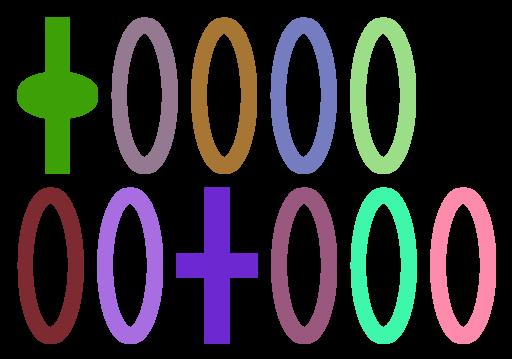
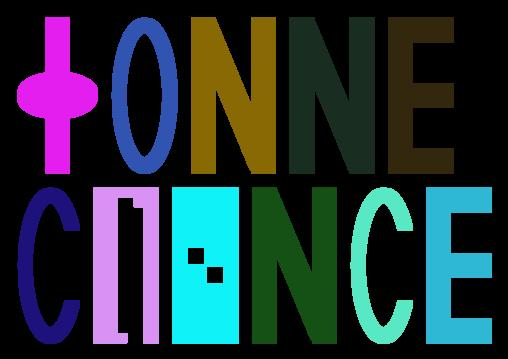
mes lettres

diff --git a/src/main/java/Letter/LetterFactory.java b/src/main/java/Letter/LetterFactory.java
@@ -66,7 +66,13 @@ public final class LetterFactory {
      * @return BaseShape containing the letter C
      */
     public static BaseShape create_C() {
-        return create_O();
+        Double centerRight = halfMaxWidth-halfStripeThickness;
+
+        BaseShape lettreC = create_O();
+        Rectangle aEffacer = new Rectangle(stripeThickness,halfMaxHeight);
+        aEffacer.translate(new Point2d(centerRight,0.0));
+        lettreC.remove(aEffacer);
+        return lettreC;
     }
 
     /** TODO
@@ -74,7 +80,24 @@ public final class LetterFactory {
      * @return BaseShape containing the letter E
      */
     public static BaseShape create_E() {
-        return create_O();
+        Double centerLeft = -halfMaxWidth+halfStripeThickness;
+        Double centerTop = halfMaxHeight-halfStripeThickness;
+        Double centerBottom = -centerTop;
+
+        BaseShape lettreE = new BaseShape();
+        Rectangle leftBar = new Rectangle(stripeThickness,maxHeight);
+        leftBar.translate(new Point2d(centerLeft,0.0));
+        Rectangle centerBar = new Rectangle(maxWidth,stripeThickness);
+        Rectangle topBar = centerBar.clone();
+        topBar.translate(new Point2d(0.0,centerTop));
+        Rectangle bottomBar = centerBar.clone();
+        bottomBar.translate(new Point2d(0.0,centerBottom));
+        lettreE.add(leftBar);
+        lettreE.add(centerBar);
+        lettreE.add(topBar);
+        lettreE.add(bottomBar);
+
+        return lettreE;
     }
 
     /** TODO
@@ -103,7 +126,20 @@ public final class LetterFactory {
      * @return BaseShape containing the letter N
      */
     public static BaseShape create_N() {
-        return create_O();
+        Double angle = -Math.PI/8;
+        BaseShape lettreN = new BaseShape();
+        Rectangle leftBar = new Rectangle(stripeThickness,maxHeight);
+        Rectangle rightBar = leftBar.clone();
+        Rectangle centerBar = leftBar.clone();
+        leftBar.translate(new Point2d(-halfMaxWidth,0.0));
+        rightBar.translate(new Point2d(halfMaxWidth,0.0));
+        centerBar.rotate(angle);
+        lettreN.add(leftBar);
+        lettreN.add(centerBar);
+        lettreN.add(rightBar);
+
+
+        return lettreN;
     }
 
     /** TODO

diff --git a/src/main/java/Shape/BaseShape.java b/src/main/java/Shape/BaseShape.java
@@ -224,4 +224,17 @@ public class BaseShape extends Transform implements Cloneable {
     public BaseShape clone() {
         return new BaseShape(cloneCoords());
     }
+
+    public BaseShape rotate(Double angle){
+
+        rotate(coords,angle);
+
+        return this;
+    }
+
+
+    public BaseShape translate(Point2d translatePoint){
+        translate(coords,translatePoint);
+        return this;
+    }
 }
